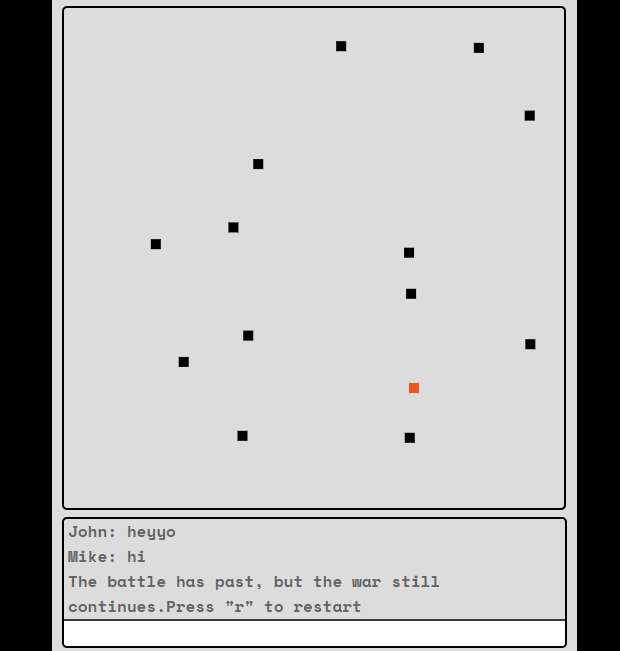
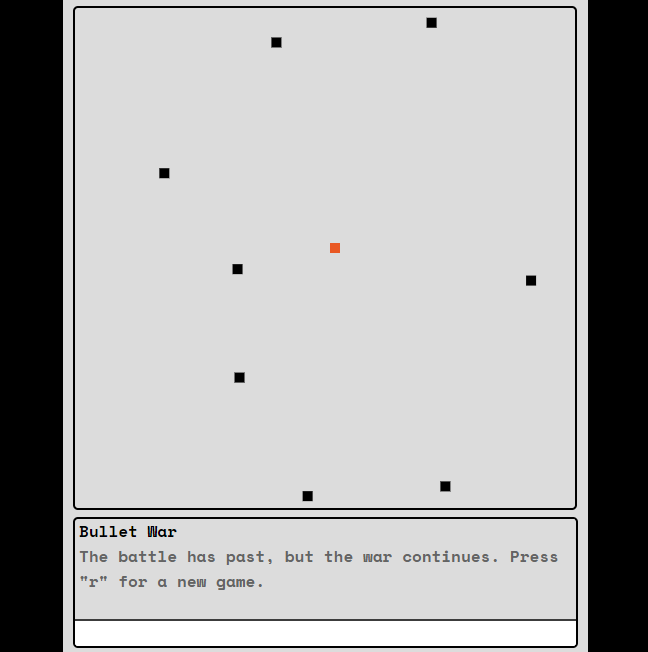
Change game over message, Replace old game over picture for readme

diff --git a/client/index.html b/client/index.html
@@ -222,7 +222,7 @@
 
         const endGame = () => {
             isGameFinish = true;
-            chatText.innerHTML += '<div>The battle has past, but the war still continues.Press "r" to restart</div>';
+            chatText.innerHTML += '<div>The battle has past, but the war continues. Press "r" for a new game.</div>';
         }
 
     </script>
